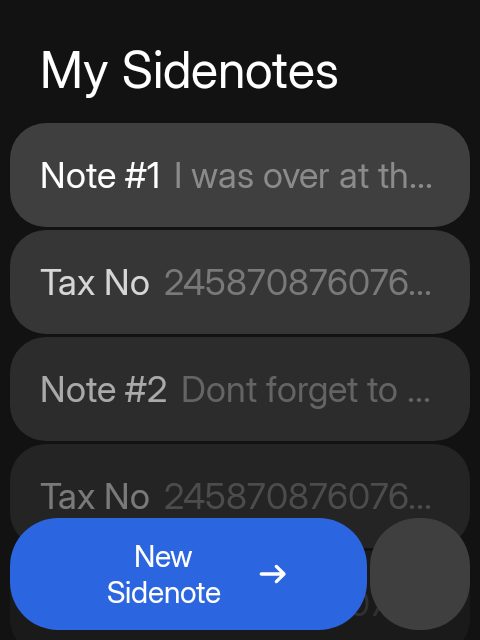
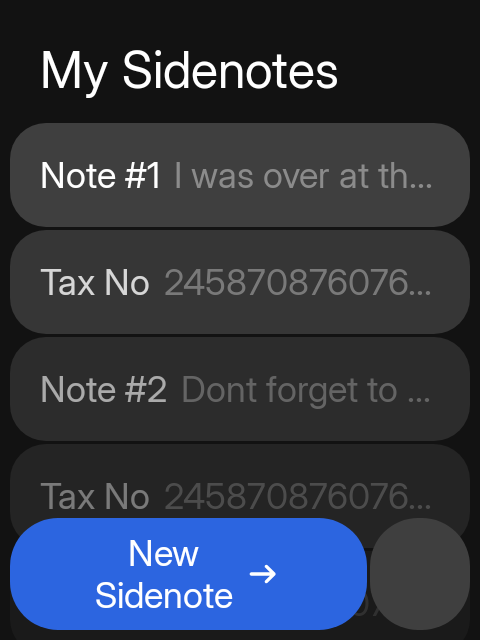
fix(action-bar): wrap action labels without shrinking their type
A two-row action label stepped down the type scale (body to label), so one
bar could show a body-size action next to a label-size one and read as a
bug. A wrapped label keeps its action's type size now and fits two rows
with a tighter 1.15 leading, so the fixed bar height is unchanged.

The label's layout was as wide as its constraint rather than its text: a
short two-word label that had to wrap took the whole column, which pushed
the leading icon to one edge and the text towards the other. tightWidth
measures the widest drawn line and the paragraph is centred inside that
box, so a wrapped label keeps its icon beside it.

A label that still does not fit two rows is scaled down in 4% steps to 0.8
before it is shortened, and a candidate that breaks inside a word is
rejected, so "Rearrange order" no longer renders as "Rearrang / e order".
The final cut falls on a word boundary only when it keeps three quarters of
the characters the end-of-line ellipsis would have shown.

Measured text stays cached (measurer cache size 24) because a morph
re-measures against the same settled width on every frame.

Changed region(s): [[0.1875, 0.8438, 0.5, 0.9688], [0.5312, 0.875, 0.5938, 0.9062]]

diff --git a/sidekit/src/main/java/hrln/interactive/sidekit/design/action/ActionBarHost.kt b/sidekit/src/main/java/hrln/interactive/sidekit/design/action/ActionBarHost.kt
@@ -36,6 +36,7 @@ import androidx.compose.ui.draw.drawWithCache
 import androidx.compose.ui.draw.drawWithContent
 import androidx.compose.ui.focus.FocusRequester
 import androidx.compose.ui.focus.focusRequester
+import androidx.compose.ui.geometry.Offset
 import androidx.compose.ui.graphics.Color
 import androidx.compose.ui.graphics.CompositingStrategy
 import androidx.compose.ui.graphics.GraphicsLayerScope
@@ -59,6 +60,7 @@ import androidx.compose.ui.semantics.semantics
 import androidx.compose.ui.semantics.text
 import androidx.compose.ui.text.AnnotatedString
 import androidx.compose.ui.text.TextLayoutResult
+import androidx.compose.ui.text.TextMeasurer
 import androidx.compose.ui.text.TextStyle
 import androidx.compose.ui.text.drawText
 import androidx.compose.ui.text.rememberTextMeasurer
@@ -73,6 +75,7 @@ import hrln.interactive.sidekit.design.theme.SidekitTheme
 import hrln.interactive.sidekit.design.theme.contentColorFor
 import hrln.interactive.sidekit.design.theme.drawFocusRing
 import kotlin.math.abs
+import kotlin.math.ceil
 import kotlin.math.max
 import kotlin.math.min
 import kotlin.math.roundToInt
@@ -593,10 +596,21 @@ private fun GraphicsLayerScope.applyTravel(motion: ActionMotion, t: Float, dista
 }
 
 /**
- * An action label that wraps onto a second row instead of truncating. It is measured at [oneLine]
- * first; only a label that cannot fit on one line falls back to [twoLine] (a step down the type
- * scale) and is allowed to wrap to two lines. Labels too long even for two are ellipsized, so a
- * button never grows a third row.
+ * An action label that wraps onto a second row rather than truncating. A wrapped label keeps the
+ * action's type size: the old one-step-down "two line" style made neighbouring buttons disagree
+ * about their type scale, which read as a bug. Two lines use a tighter leading so they fit the
+ * fixed bar height.
+ *
+ * A label that still does not fit two rows is scaled down in small steps (down to
+ * [MIN_WRAPPED_LABEL_SCALE]) before it is shortened, so long labels give up type size only when
+ * there is no other way to keep them whole. The final fallback cuts at a word boundary whenever
+ * that still shows most of the message; otherwise the standard end-of-line ellipsis keeps more
+ * of it. The bar height itself never changes: two rows fit because their leading is tighter.
+ *
+ * The layout is only as wide as its widest line ([tightWidth]), not the space it was allowed. A
+ * wrapped label therefore keeps its icon beside it and the pair stays centred in the button; if
+ * the layout kept the full allowance, a short two-word label would leave a void between icon and
+ * text and push both towards the button's edges.
  *
  * Measurement happens in the layout phase against the slot's settled width, which is constant for
  * a whole morph, so text is shaped once per content change rather than every frame. The result is
@@ -605,33 +619,156 @@ private fun GraphicsLayerScope.applyTravel(motion: ActionMotion, t: Float, dista
 @Composable
 private fun ActionLabel(
     text: String,
-    oneLine: TextStyle,
-    twoLine: TextStyle,
+    style: TextStyle,
     color: Color,
     modifier: Modifier = Modifier
 ) {
-    val measurer = rememberTextMeasurer()
-    val singleStyle = remember(oneLine, color) { oneLine.copy(color = color, textAlign = TextAlign.Center) }
-    val wrappedStyle = remember(twoLine, color) { twoLine.copy(color = color, textAlign = TextAlign.Center) }
+    // A wrapped label may measure a handful of candidate scales while it settles; keep them all
+    // cached so a morph re-uses the shaped text instead of shaping it every frame.
+    val measurer = rememberTextMeasurer(cacheSize = 24)
+    val labelStyle = remember(style, color) { style.copy(color = color, textAlign = TextAlign.Center) }
     var drawn by remember { mutableStateOf<TextLayoutResult?>(null) }
     Layout(
         content = {},
         modifier = modifier.drawWithContent {
             drawContent()
-            drawn?.let { drawText(it) }
+            drawn?.let { result ->
+                // The paragraph is laid out across the full allowance and centred inside it. The
+                // label itself is only as wide as its widest line, so shift the paragraph to
+                // keep that tight box centred on the text.
+                drawText(result, topLeft = Offset((size.width - result.size.width) / 2f, 0f))
+            }
         }
     ) { _, constraints ->
         val bounds = Constraints(maxWidth = constraints.maxWidth, maxHeight = constraints.maxHeight)
-        val single = measurer.measure(text, singleStyle, overflow = TextOverflow.Ellipsis, maxLines = 2, constraints = bounds)
-        // lineCount == 1 means it fits on one row at the normal size, so it is never shrunk.
-        val result = if (single.lineCount <= 1) {
-            single
-        } else {
-            measurer.measure(text, wrappedStyle, overflow = TextOverflow.Ellipsis, maxLines = 2, constraints = bounds)
-        }
+        val result = measureActionLabel(measurer, text, labelStyle, bounds)
         drawn = result
-        layout(result.size.width, result.size.height) {}
+        val width = result.tightWidth().coerceAtMost(constraints.maxWidth)
+        layout(width, result.size.height) {}
     }
+}
+
+/** Wrapped labels use a tighter leading than single-line text so two rows fit a fixed bar. */
+private const val TWO_LINE_LEADING = 1.15f
+
+/** How far a label may shrink to stay on two rows before it is shortened instead. */
+private const val MIN_WRAPPED_LABEL_SCALE = 0.8f
+
+/** Each shrink step is small enough to stay close to the action's real type size. */
+private const val LABEL_SCALE_STEP = 0.04f
+
+private fun measureActionLabel(
+    measurer: TextMeasurer,
+    text: String,
+    style: TextStyle,
+    bounds: Constraints
+): TextLayoutResult {
+    val single = measurer.measure(text, style, overflow = TextOverflow.Ellipsis, maxLines = 2, constraints = bounds)
+    if (single.lineCount <= 1) return single
+
+    val wrappedStyle = style.copy(lineHeight = style.fontSize * TWO_LINE_LEADING)
+    val wrapped = measurer.measure(text, wrappedStyle, overflow = TextOverflow.Ellipsis, maxLines = 2, constraints = bounds)
+    if (!wrapped.hasVisualOverflow && wrapped.breaksOnlyBetweenWords(text)) return wrapped
+
+    // Wrapping must not cut a word in half just because the icon left the line a little narrow
+    // ("Rearrang / e order"). Shrink in small steps until the text both fits two rows and breaks
+    // between words. Only when that is impossible is the label cut.
+    var smallestFit: TextLayoutResult? = if (!wrapped.hasVisualOverflow) wrapped else null
+    var scale = 1f - LABEL_SCALE_STEP
+    while (scale >= MIN_WRAPPED_LABEL_SCALE) {
+        val candidate = measurer.measure(
+            text,
+            wrappedStyle.scaled(scale),
+            overflow = TextOverflow.Ellipsis,
+            maxLines = 2,
+            constraints = bounds
+        )
+        if (!candidate.hasVisualOverflow) {
+            if (candidate.breaksOnlyBetweenWords(text)) return candidate
+            // A single word wider than the button still has to split somewhere. Keep the
+            // smallest readable version of it rather than giving up on the two rows.
+            smallestFit = candidate
+        }
+        scale -= LABEL_SCALE_STEP
+    }
+    smallestFit?.let { return it }
+
+    // Shrinking cannot make it fit at all: stay at the action's real size and cut once, so the
+    // button does not lose both size and words.
+    return shortestUsefulCut(measurer, text, wrappedStyle, bounds)
+}
+
+/** True when every line break in [text] falls on whitespace rather than inside a word. */
+private fun TextLayoutResult.breaksOnlyBetweenWords(text: String): Boolean {
+    for (line in 0 until lineCount - 1) {
+        val end = getLineEnd(line, visibleEnd = true)
+        if (end <= 0 || end >= text.length) continue
+        val before = text[end - 1]
+        val after = text[end]
+        if (!before.isWhitespace() && !after.isWhitespace() && before != '-') return false
+    }
+    return true
+}
+
+private fun TextStyle.scaled(scale: Float): TextStyle = copy(fontSize = fontSize * scale, lineHeight = lineHeight * scale)
+
+/**
+ * Cuts an overlong label once. A word-boundary cut is cleaner, but if it would hide most of the
+ * message ("Open…") the standard end-of-line ellipsis keeps far more of it ("Open notificatio…").
+ */
+private fun shortestUsefulCut(
+    measurer: TextMeasurer,
+    text: String,
+    style: TextStyle,
+    bounds: Constraints
+): TextLayoutResult {
+    val midWord = measurer.measure(text, style, overflow = TextOverflow.Ellipsis, maxLines = 2, constraints = bounds)
+    val words = text.trim().split(WHITESPACE)
+    if (words.size <= 1) return midWord
+
+    var low = 1
+    var high = words.size - 1
+    var bestWords = 0
+    var best: TextLayoutResult? = null
+    while (low <= high) {
+        val count = (low + high) / 2
+        val candidate = words.take(count).joinToString(" ") + "…"
+        val measured = measurer.measure(candidate, style, overflow = TextOverflow.Clip, maxLines = 2, constraints = bounds)
+        if (!measured.hasVisualOverflow) {
+            best = measured
+            bestWords = count
+            low = count + 1
+        } else {
+            high = count - 1
+        }
+    }
+    val wordCut = best ?: return midWord
+    // Keep the whole-word cut only when it preserves at least three quarters of what the
+    // mid-word ellipsis would show.
+    val midWordChars = midWord.visibleCharacters()
+    val wordCutChars = text.trim().split(WHITESPACE).take(bestWords).sumOf { it.length }
+    return if (midWordChars == 0 || wordCutChars * 4 >= midWordChars * 3) wordCut else midWord
+}
+
+/** Characters actually shown, excluding the ellipsis and trailing whitespace. */
+private fun TextLayoutResult.visibleCharacters(): Int = if (lineCount == 0) 0 else getLineEnd(lineCount - 1, visibleEnd = true)
+
+private val WHITESPACE = Regex("\\s+")
+
+/**
+ * The width of the widest drawn line. [TextLayoutResult.size] is the allowance handed to the
+ * paragraph, which is the full column whenever the text has to wrap; using it as the label's
+ * width is what pushed icons and short labels out to the button's edges.
+ */
+private fun TextLayoutResult.tightWidth(): Int {
+    var tight = 0f
+    for (line in 0 until lineCount) {
+        val left = getLineLeft(line)
+        val right = getLineRight(line)
+        tight = max(tight, abs(right - left))
+    }
+    val width = ceil(tight).toInt()
+    return if (width > 0) width else size.width
 }
 
 @Composable
@@ -657,11 +794,12 @@ private fun ActionContent(action: SideAction, modifier: Modifier) {
             val typography = SidekitTheme.typography
             ActionLabel(
                 text = label,
-                oneLine = if (action.dense) typography.label else typography.body,
-                twoLine = if (action.dense) typography.caption else typography.label,
+                style = if (action.dense) typography.label else typography.body,
                 color = foreground,
                 // Weighted so the icons are measured first and keep their space: otherwise a
-                // full-width two-line label squeezes a trailing arrow down to nothing.
+                // full-width two-line label squeezes a trailing arrow down to nothing. `fill`
+                // stays false so a wrapped label keeps its tight width and the icon sits beside
+                // the text instead of at the far edge of the column.
                 modifier = Modifier
                     .weight(1f, fill = false)
                     // Drawn text does not expose semantics on its own. Always expose the label as

diff --git a/app/src/test/java/hrln/interactive/sidekit/ui/ActionBarWrapScreenshotTest.kt b/app/src/test/java/hrln/interactive/sidekit/ui/ActionBarWrapScreenshotTest.kt
@@ -2,11 +2,18 @@ package hrln.interactive.sidekit.ui
 
 import androidx.compose.runtime.Composable
 import androidx.compose.ui.test.junit4.createComposeRule
+import androidx.compose.ui.test.onNodeWithContentDescription
+import androidx.compose.ui.test.onNodeWithText
 import androidx.compose.ui.test.onRoot
 import androidx.test.ext.junit.runners.AndroidJUnit4
 import com.github.takahirom.roborazzi.captureRoboImage
 import hrln.interactive.sidekit.design.action.SideAction
+import hrln.interactive.sidekit.design.canvas.SidekitCanvas
 import hrln.interactive.sidekit.design.components.SidekitScaffold
+import hrln.interactive.sidekit.design.icons.SidekitIcon
+import hrln.interactive.sidekit.design.theme.SidekitSpacing
+import hrln.interactive.sidekit.design.theme.SidekitTheme
+import org.junit.Assert.assertTrue
 import org.junit.Rule
 import org.junit.Test
 import org.junit.runner.RunWith
@@ -27,9 +34,61 @@ class ActionBarWrapScreenshotTest {
             title = "Wrap test",
             actions = listOf(
                 SideAction.forward("a", "Open notification settings", onClick = {}),
-                SideAction("b", "Mark as unread") {},
-            ),
+                SideAction("b", "Mark as unread") {}
+            )
         ) {}
+    }
+
+    /** A short wrapped label must stay beside its icon, not spread to the button's edges. */
+    @Test fun shortWrappedLabelKeepsIconClose() {
+        compose.setContent {
+            SidekitPreviewFrame {
+                SidekitScaffold(
+                    title = "Leading icon",
+                    actions = listOf(
+                        SideAction("a", "Open settings", SidekitIcon.Settings) {},
+                        SideAction("b", "New playlist", SidekitIcon.Add) {}
+                    )
+                ) {}
+            }
+        }
+        compose.waitForIdle()
+        val button = compose.onNodeWithContentDescription("Open settings").fetchSemanticsNode().boundsInRoot
+        val label = compose.onNodeWithText("Open settings").fetchSemanticsNode().boundsInRoot
+        assertTrue(
+            "the wrapped label should report its tight text width, not the whole column",
+            label.right <= button.right - 20f
+        )
+        compose.onRoot().captureRoboImage("screenshots/action_labels_wrap_icon.png")
+    }
+
+    /** A word must not be split across the two rows; the label shrinks slightly instead. */
+    @Test fun wrappedWordsStayWhole() = shoot("action_labels_wrap_words") {
+        SidekitScaffold(
+            title = "Two short words",
+            actions = listOf(
+                SideAction("a", "Rearrange order", SidekitIcon.Settings) {},
+                SideAction("b", "Clear cache") {}
+            )
+        ) {}
+    }
+
+    /** Two lines must still fit the shorter compact bar (100 dp). */
+    @Test fun compactBarFitsTwoLines() {
+        compose.setContent {
+            SidekitTheme(spacing = SidekitSpacing.Compact) {
+                SidekitCanvas {
+                    SidekitScaffold(
+                        title = "Compact wrap",
+                        actions = listOf(
+                            SideAction("a", "Open settings", SidekitIcon.Settings) {},
+                            SideAction("b", "Mark as unread") {}
+                        )
+                    ) {}
+                }
+            }
+        }
+        compose.onRoot().captureRoboImage("screenshots/action_labels_wrap_compact.png")
     }
 
     @Test fun denseLabelsWrap() = shoot("action_labels_wrap_dense") {
@@ -37,8 +96,8 @@ class ActionBarWrapScreenshotTest {
             title = "Dense wrap test",
             actions = listOf(
                 SideAction("a", "Inbox cache refresh failed, retry later", dense = true) {},
-                SideAction("b", "Dismiss", dense = true) {},
-            ),
+                SideAction("b", "Dismiss", dense = true) {}
+            )
         ) {}
     }
 }
